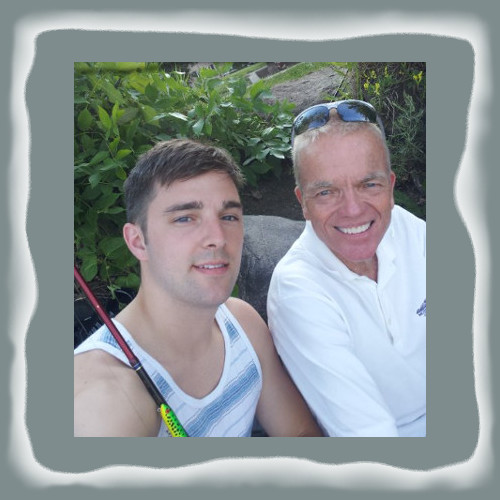
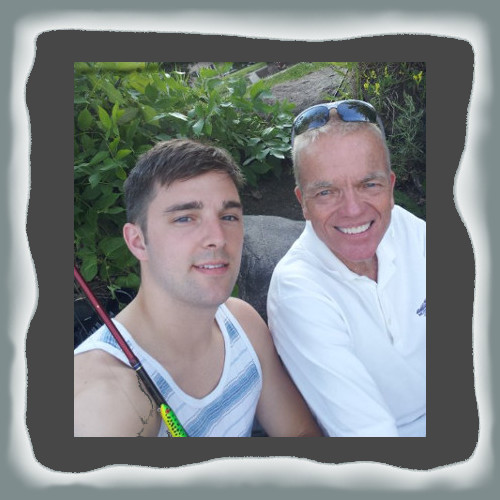
home: moar mods, all css and image manip

Changed region(s): [[0.03, 0.06, 0.96, 0.96], [0.27, 0.75, 0.3, 0.81]]

diff --git a/src/app/resources/templates/home.html b/src/app/resources/templates/home.html
@@ -22,35 +22,48 @@
             </button>
         </div>
         <div class="span6 intro center">
-            <div id="myCarousel" class="carousel">
+            <div id="my-carousel" class="carousel slide">
+                <ol class="carousel-indicators">
+                    <li data-target="#my-carousel" data-slide-to="0" class="active"></li>
+                    <li data-target="#my-carousel" data-slide-to="1" class="active"></li>
+                    <li data-target="#my-carousel" data-slide-to="2" class="active"></li>
+                    <li data-target="#my-carousel" data-slide-to="3" class="active"></li>
+                    <li data-target="#my-carousel" data-slide-to="4" class="active"></li>
+                </ol>
 		        <div class="carousel-inner">
-		            <div class="caro item active">
+		            <div class="item active">
 		                <img src="/static/img/homepics/profile_picture.jpg" width="500" height="500">
 		            </div>
-		            <div class="caro item">
+		            <div class="item">
 		                <img src="/static/img/homepics/fish_w_dad.jpg" width="500" height="500">
 		            </div>
-		            <div class="caro item">
+		            <div class="item">
 		                <img src="/static/img/homepics/snowboarding.jpg" width="500" height="500">
 		            </div>
-		            <div class="caro item">
+		            <div class="item">
 		                <img src="/static/img/homepics/mexico_w_tone.jpg" width="500" height="500">
 		            </div>
-		            <div class="caro item">
+		            <div class="item">
 		                <img src="/static/img/homepics/snowboarding2.jpg" width="500" height="500">
 		            </div>
-		            <div class="caro item">
+		            <div class="item">
 		                <img src="/static/img/homepics/rakin.jpg" width="500" height="500">
 		            </div>
 			    </div>
 			    <!-- Carousel nav -->
-			    <a class="carousel-control left" href="#myCarousel" data-slide="prev">&rsaquo;</a>
-			    <a class="carousel-control right" href="#myCarousel" data-slide="next">&rsaquo;</a>
+			    <a class="carousel-control left" href="#my-carousel" data-slide="prev">
+			        <span class="icon-prev"></span>
+			    </a>
+			    <a class="carousel-control right" href="#my-carousel" data-slide="next">
+			        <span class="icon-next"></span>
+			    </a>
 		    </div>
         </div>
     </div>
     <!-- /row-fluid -->
 </div>
 <script>
-$('.carousel').carousel();
+$('.carousel').carousel({
+	interval: 2000
+});
 </script>

diff --git a/src/app/resources/css/main.css b/src/app/resources/css/main.css
@@ -72,8 +72,8 @@ body {
 
 
 /* Section 1 */
-.caro {
-	background-color: #7f8c8d;  
+.carousel-control {
+	background-image: none !important;
 }
 
 #section1 {
